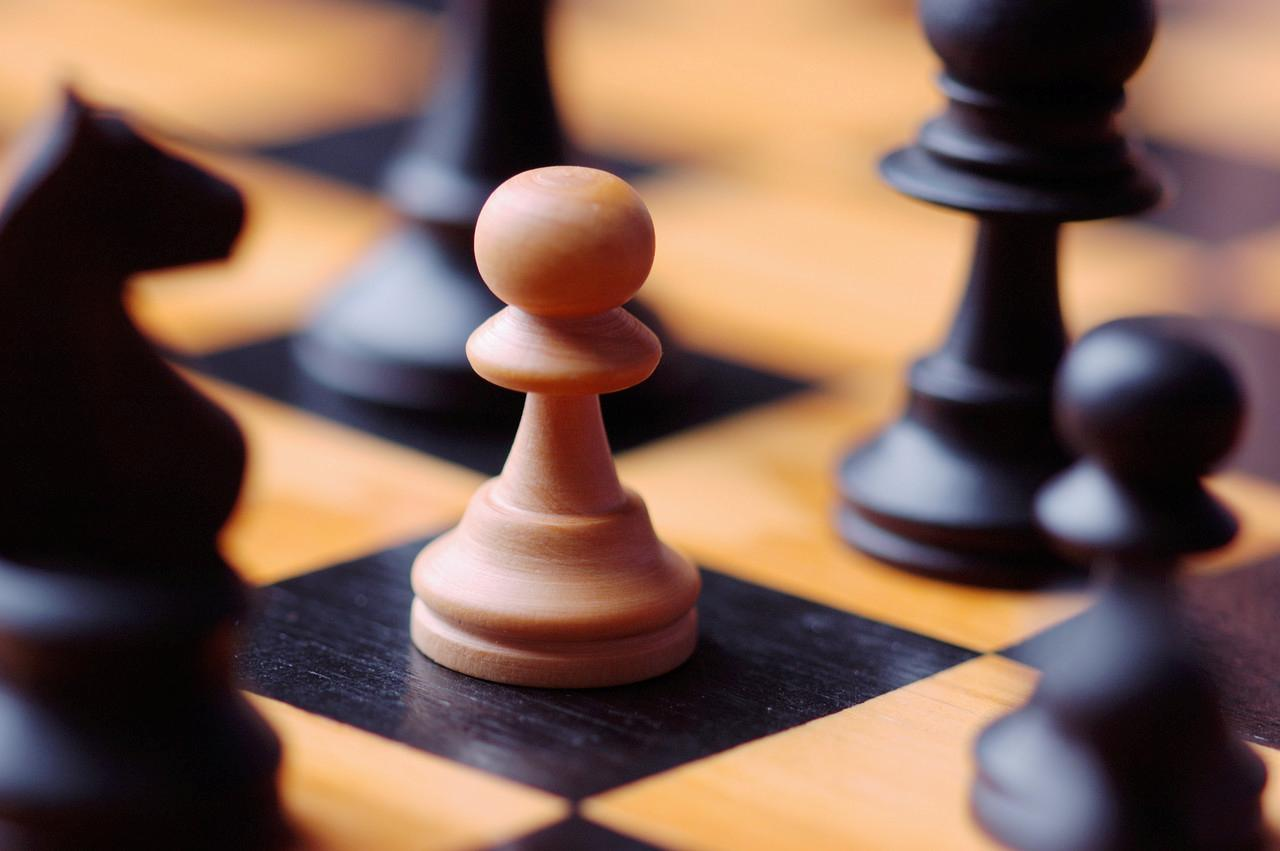
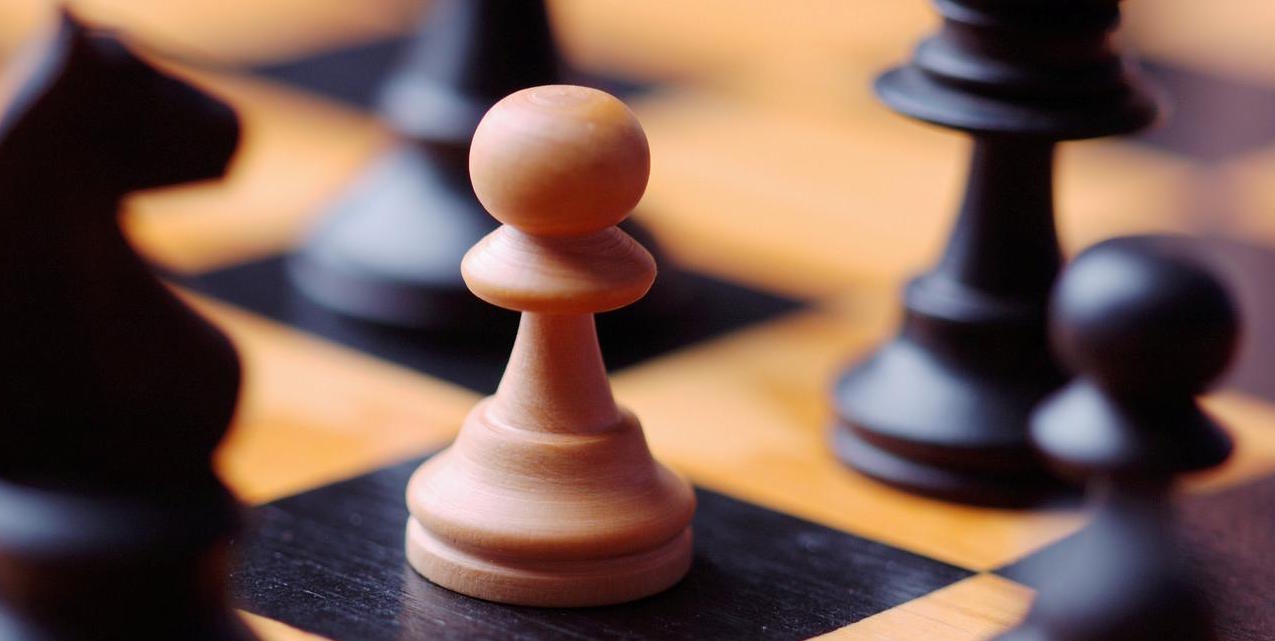
tweak images

diff --git a/content/about.html b/content/about.html
@@ -1,10 +1,10 @@
 +++
-title = "About me"
-description = "Who is Marc Cohen"
+title = "About"
+description = ""
 +++
 
 <div>
-  <span class="image main"><img src="/img/chess.jpg" alt="" /></span>
+  <span class="image main"><img src="/img/chess2.jpg" alt="" /></span>
   (<a href="/mcohen-cv.pdf">My Resume</a> | <a href="/linkedin">LinkedIn</a>)
   <p>
       I'm a Developer Advocate at Google. I build tools, demos, codelabs, and other things to make the <a href="https://cloud.google.com">Google Cloud Platform</a>

diff --git a/layouts/partials/navigation.html b/layouts/partials/navigation.html
@@ -1,5 +1,5 @@
 
-<h6><a href="{{ .Site.BaseURL }}">Articles</a></h6>
+<h6><a href="{{ .Site.BaseURL }}">Blog</a></h6>
 <h6><a href="{{ .Site.BaseURL }}music">Music</a></h6>
 <h6><a href="{{ .Site.BaseURL }}books">Books</a></h6>
-<h6><a rel="prerender" href="{{ .Site.BaseURL }}about">About me</a></h6>
+<h6><a rel="prerender" href="{{ .Site.BaseURL }}about">About</a></h6>

diff --git a/layouts/index.html b/layouts/index.html
@@ -1,6 +1,5 @@
 {{ partial "header.html" . }}
 		<main id="content">
-            <h1 class="post-title">Articles</h1>
             <img src="/img/london.jpg" alt="" />
 {{ $paginator := .Paginate (where .Data.Pages "Type" "post") }}
 
